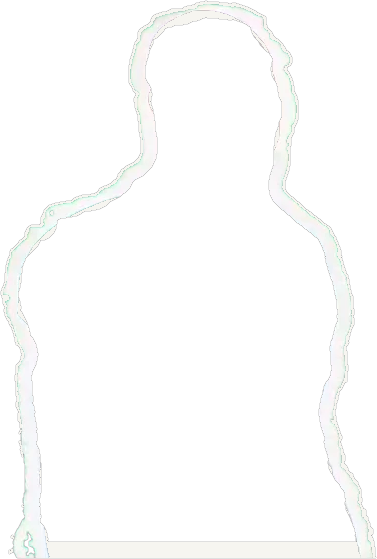
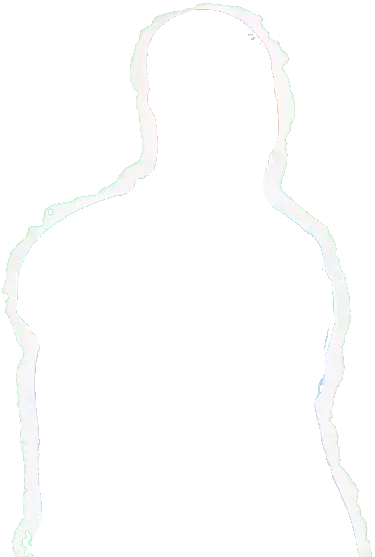
Jets years: use the official collage cutouts and their outline
Reuse the hero banner cutouts behind the copy, and peel only their
already-baked white outline so the edge stays crisp and even — no
rebuilt stroke, no tape or sticker shadow.

diff --git a/app/globals.css b/app/globals.css
@@ -748,12 +748,11 @@ html[data-hero-intro="b"] .hero-poster { background-image: url("/hero/intro-v2-p
 .font-serif { font-feature-settings: "kern", "liga"; }
 .bio-cutout { opacity: .16; filter: grayscale(1) contrast(1.1); mix-blend-mode: luminosity;
   -webkit-mask-image: linear-gradient(to bottom, #000 55%, transparent); mask-image: linear-gradient(to bottom, #000 55%, transparent); }
-.bio-cutout-wrap { filter: drop-shadow(0 18px 30px rgba(0,0,0,.35)); }
 .bio-cutout-stack { position: relative; height: 100%; width: auto;
   -webkit-mask-image: linear-gradient(to bottom, #000 55%, transparent); mask-image: linear-gradient(to bottom, #000 55%, transparent); }
 .bio-cutout-fill, .bio-cutout-ring { height: 100%; width: auto; max-width: none; display: block; }
 .bio-cutout-fill { opacity: .16; filter: grayscale(1) contrast(1.1); mix-blend-mode: luminosity; }
-.bio-cutout-ring { position: absolute; top: 0; left: 0; height: 100%; opacity: .8; }
+.bio-cutout-ring { position: absolute; top: 0; left: 0; height: 100%; opacity: .92; }
 .signup-host { filter: drop-shadow(0 18px 30px rgba(0,0,0,.35)); }
 body:has(.signup-form:focus-within) .to-top { opacity: 0; pointer-events: none; }
 .signup-form input:focus-visible { outline: 2px solid var(--signal); outline-offset: 2px; }

diff --git a/components/jets-section.tsx b/components/jets-section.tsx
@@ -30,14 +30,14 @@ export function JetsSection({
             years={t.jets.bartYears}
             name={t.jets.bartTitle}
             blocks={story.bart}
-            fill="/hero/bart-bio-fill.webp"
+            fill="/hero/bart-cutout.webp"
             ring="/hero/bart-bio-ring.webp"
           />
           <HostColumn
             years={t.jets.willieYears}
             name={t.jets.willieTitle}
             blocks={story.willie}
-            fill="/hero/willie-bio-fill.webp"
+            fill="/hero/willie-cutout.webp"
             ring="/hero/willie-bio-ring.webp"
           />
         </div>
